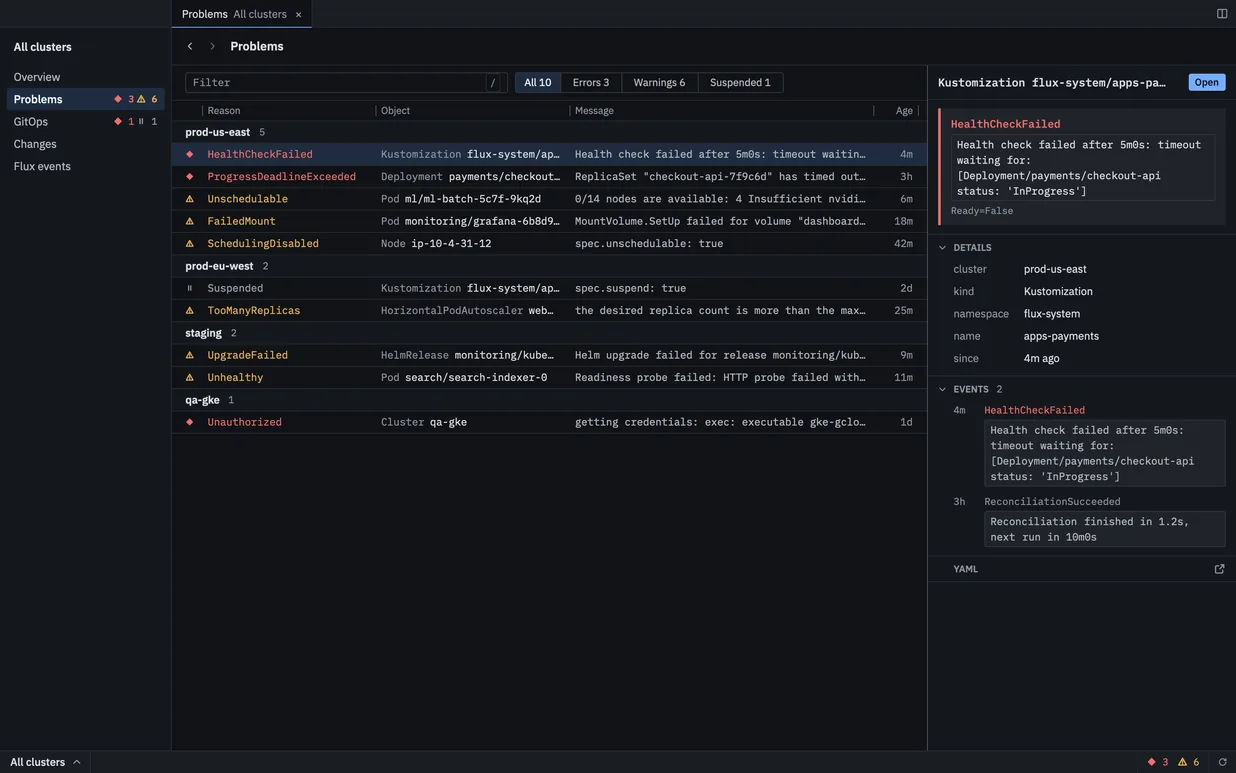
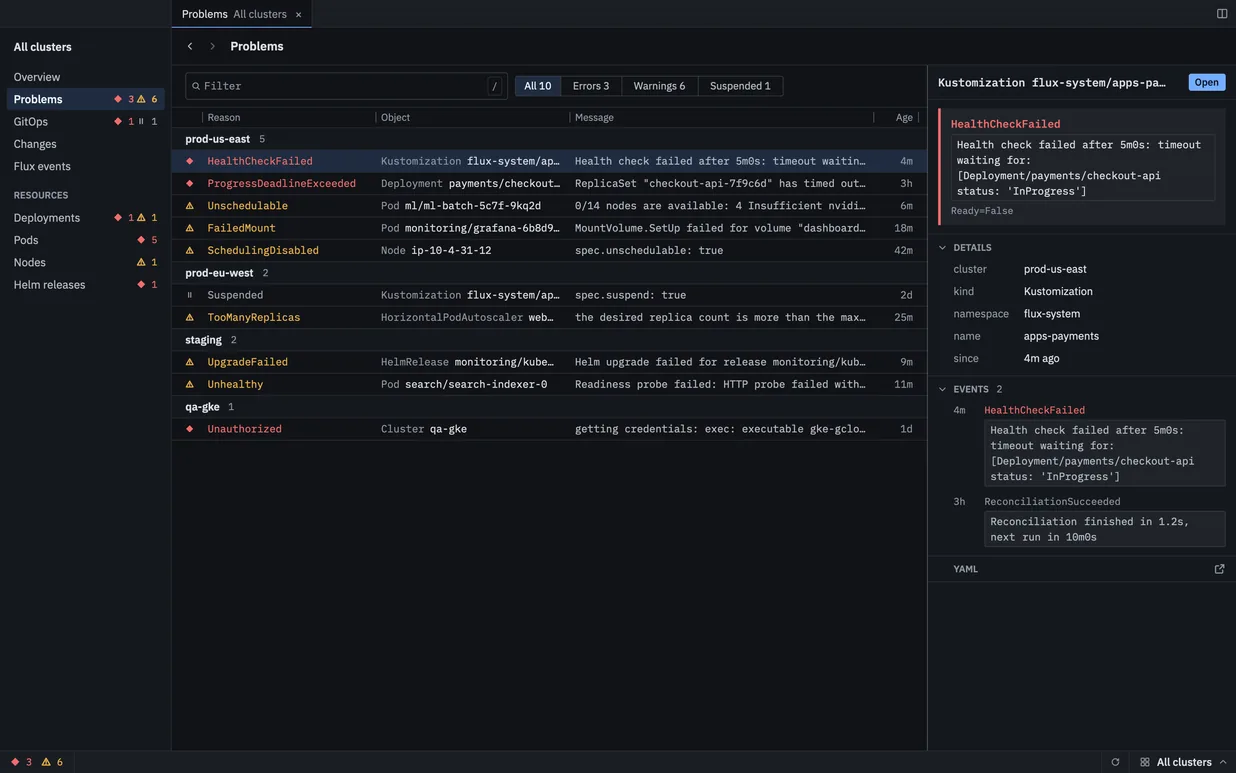
Fix the hero frame border in light mode and show recent features on the site
In light mode the hero frame used the light --border-strong, which drew a
white line along the dark half of the dark/light comparison and against the
blue band. The frame gets its own --frame-border: unchanged in dark mode,
a faint translucent dark in light mode.

Adds an "Across clusters" feature row for the Deployments, Pods, Nodes and
Helm releases pages across the selected clusters, rewrites the Debugging row
for the Logs v3 page, and re-renders every site screenshot from the current
app (new status bar, cluster selector, Logs page).

diff --git a/site/src/content.ts b/site/src/content.ts
@@ -49,6 +49,19 @@ export const FEATURES: Feature[] = [
     alt: "Flock listing every connected cluster with its status, capacity and problems",
   },
   {
+    kicker: "Across clusters",
+    accent: "ok",
+    title: "One list for every cluster's resources",
+    body: "Deployments, Pods, Nodes and Helm releases from all the clusters you pick, in one table. Filter by cluster, status or image, group the rows, and act on many at once.",
+    points: [
+      "several clusters per tab",
+      "query bar with facets, rows grouped",
+      "restart, scale, cordon or delete in bulk",
+    ],
+    screen: "flock-deployments",
+    alt: "Deployments from two clusters in one table, grouped by status with the failing ones first",
+  },
+  {
     kicker: "GitOps",
     accent: "violet",
     title: "See which commit is on which cluster",
@@ -74,14 +87,14 @@ export const FEATURES: Feature[] = [
     kicker: "Debugging",
     accent: "ok",
     title: "Logs, shells and debug containers",
-    body: "Stream logs from every pod of a workload at once. Open a shell in any container, or a debug container when the image has none.",
+    body: "Stream logs from every pod of a workload, on every cluster, at once. Filter by level or pod, search, and see the volume over time. Open a shell in any container, or a debug container when the image has none.",
     points: [
-      "logs from all pods, parsed into fields",
-      "logs from before the last restart",
+      "logs from all pods, levels parsed from JSON and logfmt",
+      "volume histogram stacked by level",
       "port-forward and YAML editing from ⌘K",
     ],
     screen: "logs",
-    alt: "Streaming pod logs parsed into fields",
+    alt: "Logs from every pod of a workload, with a volume histogram by level and the sources grouped by status",
   },
   {
     kicker: "Capacity",

diff --git a/site/src/index.css b/site/src/index.css
@@ -29,6 +29,7 @@
   --handle: #ffffff;
   --handle-ring: rgba(0, 0, 0, 0.25);
   --frame-shadow: rgba(0, 0, 0, 0.45);
+  --frame-border: #323740;
 }
 
 @media (prefers-color-scheme: light) {
@@ -50,6 +51,7 @@
     --violet: #7c3aed;
     --band: #1f5fd1;
     --band-foreground-soft: rgba(255, 255, 255, 0.78);
+    --frame-border: rgba(20, 24, 32, 0.16);
   }
 }
 
@@ -79,6 +81,7 @@
   --color-handle: var(--handle);
   --color-handle-ring: var(--handle-ring);
   --color-frame-shadow: var(--frame-shadow);
+  --color-frame-border: var(--frame-border);
 }
 
 @theme {

diff --git a/site/src/App.tsx b/site/src/App.tsx
@@ -129,7 +129,7 @@ function Compare() {
       style={{ "--band-stop": COMPARE_BAND_STOP } as CSSProperties}
     >
       <div className="mx-auto max-w-page">
-        <div className="relative overflow-hidden rounded-frame border border-border-strong bg-card shadow-frame">
+        <div className="relative overflow-hidden rounded-frame border border-frame-border bg-card shadow-frame">
           <div className="group relative">
             <Shot
               screen={HERO_SCREEN}
